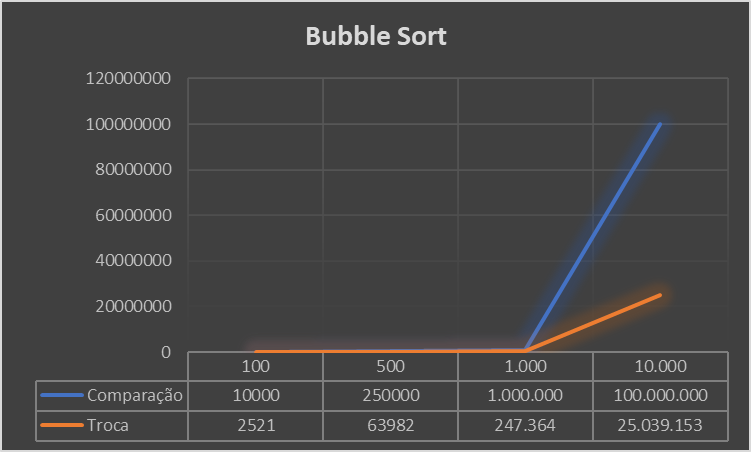
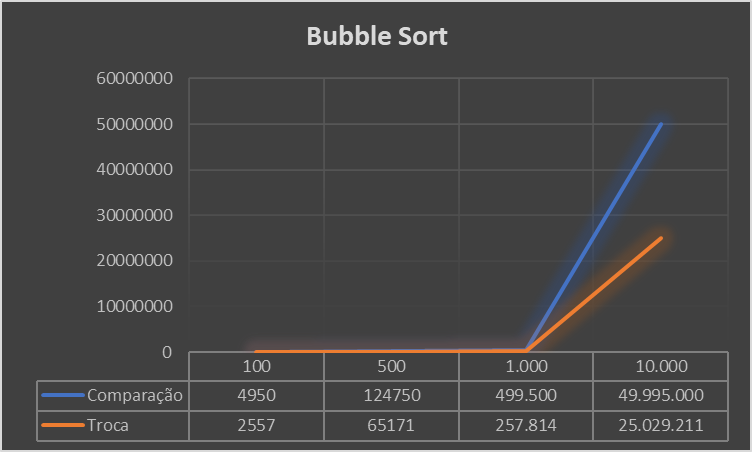
Update Bubble Sort

diff --git a/codigo/Laboratório 06/Bubble Sort/Program.cs b/codigo/Laboratório 06/Bubble Sort/Program.cs
@@ -14,15 +14,15 @@ namespace Bubble_Sort
         }
         static void bubbleSort(int[] vetor)
         {
-            for (int i = 0; i < vetor.Length; i++)
+            for (int i = 0; i < vetor.Length - 1; i++)
             {
-                for (int j = 0; j < vetor.Length; j++)
+                for (int j = 0; j < vetor.Length - 1 - i; j++)
                 {
-                    if (vetor[i] < vetor[j])
+                    if (vetor[j + 1] < vetor[j])
                     {
                         int aux = vetor[j];
-                        vetor[j] = vetor[i];
-                        vetor[i] = aux;
+                        vetor[j] = vetor[j + 1];
+                        vetor[j + 1] = aux;
                     }
                 }
             }
